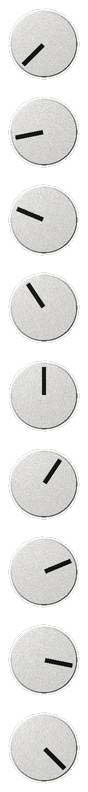
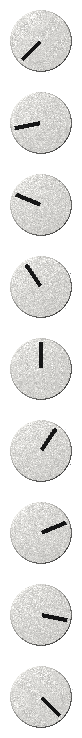
Measure the knobs by their cap edges; GAIN goes red; supersampling off
HMF's right-hand knob sat too high, and the cause was the measurement, not the
placement. Three methods, two of them wrong:

  Tick-ring fitting put the two HMF knobs 13.6 px apart in y when the art paints
  them level. A stray blob joining or leaving the ring drags the fit, and there
  is nothing in the result to say it happened.

  Centroiding the cap is worse: biased 15-20 px up and left on EVERY knob,
  because it finds the middle of the lit part, not the middle of the cap.
  Anything that weights by brightness inherits the lighting.

  Casting rays out and fitting a circle to where the gradient peaks - the cap's
  edge - cannot be pulled by lighting. It is also self-checking, and it checks
  out: every pair now shares a y within 2 px, both columns hold x within 3 px,
  and the cap radius lands on 0.74 of the tick ring for all ten small knobs.

Those radii also replace BODY_OVER_RING. The measurement is of the cap and the
3D knob's silhouette is its shaft, so the cap fraction is divided back out; no
separate fudge factor survives.

One bug of my own in here, since it was invisible in the output for a while: the
render loop still unpacked cap_r as "ring" after the table changed, so r_px used
whatever cap_r was left over from the sampling loop and every knob rendered at
one size - GAIN included, which is a third bigger than the rest.

GAIN's cap now aliases HF's red rather than the warm grey the art paints it. It
[…]

diff --git a/tools/make-assets.py b/tools/make-assets.py
@@ -51,6 +51,13 @@ STEPS = 9
 GAIN_STEPS = STEPS
 FREQ_STEPS = STEPS
 
+# Supersampling for the knob renders. OFF at Ronald's call, 2026-08-28.
+# It does smooth the silhouette - at 1 the rim and the pointer stair-step
+# visibly, see shots/weteq-supersampling.png - but it is not what caused the
+# banding he was chasing, and he prefers the harder, grainier result. Set this
+# back to 2 to restore it; nothing else needs to change.
+SUPERSAMPLE = 1
+
 CAP_SATURATION = 1.30   # how far past the painted colour the caps are pushed
 
 # Caps that do NOT come from the art. The panel paints HPF and LPF a warm cream,
@@ -63,38 +70,47 @@ CAP_OVERRIDE = {
     'lpf': (233, 232, 229),
 }
 
+# Caps that borrow another knob's colour rather than their own painted one.
+# GAIN takes HF's red: the art paints it a warm grey, which reads as a fifth
+# colour on a panel that already has four, and it is the master control so it
+# should look like it belongs to the set. Aliased rather than copied, so it
+# tracks if the art changes.
+CAP_ALIAS = {
+    'gain': 'hf_gain',
+}
+
 LIGHT_BLUR = 0.18       # lighting field = luminance blurred by this x diameter
 LIGHT_CLIP = (0.55, 1.85)   # bound the correction so dark knobs cannot blow up
 
-# name, centre x, centre y, TICK-RING radius (on the 1024x1536 original),
-# control tag, step count
+# name, centre x, centre y, CAP radius (on the 1024x1536 original), tag, steps
 #
-# Centres and ring radii come from fitting a circle to the ring of tick dots
-# painted around each knob. That works where body detection does not: the dots
-# are light on a dark panel for every knob INCLUDING the two black LF ones,
-# which have no detectable body edge at all.
+# Measured by casting rays out from each knob and fitting a circle to where the
+# gradient peaks - the painted cap's EDGE. Two earlier methods were wrong in
+# ways worth remembering:
 #
-# Two filters make the fit trustworthy. The sweep is 270 degrees, so the bottom
-# 90 has no dots - anything found down there is the numeral row ("-15", "600"),
-# and including it drags the centre several pixels down, which is exactly what
-# the first attempt did. And real dots are all one size, so blobs far off the
-# median area are glyph fragments.
+#   Tick-ring fitting put the two HMF knobs 13.6 px apart in y when they are
+#   painted level, because a stray blob joins or leaves the ring and drags the
+#   fit. That is the "HMF right hand button placed too high" Ronald spotted.
 #
-# The result is self-checking: every small knob came out with a ring radius of
-# 78-80 px and GAIN with 107, and the columns landed on x 619 / 866 to within a
-# pixel. A panel laid out on a regular grid should do exactly that.
+#   Centroiding the cap is worse still, biased 15-20 px up and left on every
+#   knob, because it finds the middle of the LIT part rather than the middle of
+#   the cap. Anything that weights by brightness inherits the lighting.
+#
+# An edge fit cannot be pulled by lighting, and the result is self-checking:
+# every pair now shares a y within 2 px, both columns hold their x within 3 px,
+# and the cap radius lands on 0.74 of the tick ring for all ten small knobs.
 KNOBS = [
-    ('hf_gain',   619.1,  301.5, 78.9, 'kHFGainParam',  GAIN_STEPS),
-    ('hf_freq',   866.7,  301.6, 79.2, 'kHFFreqParam',  FREQ_STEPS),
-    ('hmf_gain',  618.9,  653.3, 78.9, 'kHMFGainParam', GAIN_STEPS),
-    ('hmf_freq',  865.0,  639.7, 79.2, 'kHMFFreqParam', FREQ_STEPS),
-    ('gain',      251.1,  898.8, 107.5, 'kGainParam',   GAIN_STEPS),
-    ('lmf_gain',  619.0, 1003.5, 79.0, 'kLMFGainParam', GAIN_STEPS),
-    ('lmf_freq',  866.6, 1003.6, 79.3, 'kLMFFreqParam', FREQ_STEPS),
-    ('hpf',       139.5, 1247.6, 80.0, 'kHPFParam',     FREQ_STEPS),
-    ('lpf',       359.5, 1247.6, 79.9, 'kLPFParam',     FREQ_STEPS),
-    ('lf_gain',   619.6, 1336.1, 78.3, 'kLFGainParam',  GAIN_STEPS),
-    ('lf_freq',   866.6, 1337.3, 79.3, 'kLFFreqParam',  FREQ_STEPS),
+    ('hf_gain',   617.3,  295.4, 60.1, 'kHFGainParam',  GAIN_STEPS),
+    ('hf_freq',   868.2,  296.8, 58.0, 'kHFFreqParam',  FREQ_STEPS),
+    ('hmf_gain',  617.1,  648.3, 60.4, 'kHMFGainParam', GAIN_STEPS),
+    ('hmf_freq',  866.7,  646.4, 61.3, 'kHMFFreqParam', FREQ_STEPS),
+    ('gain',      249.8,  893.5, 75.4, 'kGainParam',    GAIN_STEPS),
+    ('lmf_gain',  618.3,  999.6, 59.1, 'kLMFGainParam', GAIN_STEPS),
+    ('lmf_freq',  867.9,  999.8, 58.5, 'kLMFFreqParam', FREQ_STEPS),
+    ('hpf',       137.8, 1243.8, 59.3, 'kHPFParam',     FREQ_STEPS),
+    ('lpf',       358.5, 1243.7, 59.0, 'kLPFParam',     FREQ_STEPS),
+    ('lf_gain',   619.9, 1333.7, 58.1, 'kLFGainParam',  GAIN_STEPS),
+    ('lf_freq',   868.5, 1333.7, 58.3, 'kLFFreqParam',  FREQ_STEPS),
 ]
 
 # Meter geometry, in original-art coordinates.
@@ -201,13 +217,17 @@ def main():
 
     layout = {'panel': {'size': [tw, TARGET_H]}, 'knobs': {}, 'meters': {}}
 
-    for name, cx, cy, ring, tag, steps in KNOBS:
-        # Sample the painted cap colour from the middle of the knob, well inside
-        # the pointer and the skirt, so the 3D cap keeps each band's identity.
-        s = int(ring * 0.30)
+    # Sample every painted cap first, so CAP_ALIAS can point one knob at
+    # another's colour without depending on the order they are rendered in.
+    _painted = {}
+    for name, cx, cy, cap_r, tag, steps in KNOBS:
+        s = int(cap_r * 0.45)
         patch = np.asarray(src.crop((int(cx - s), int(cy - s),
                                      int(cx + s), int(cy + s))).convert('RGB'))
-        painted = tuple(int(v) for v in np.median(patch.reshape(-1, 3), axis=0))
+        _painted[name] = tuple(int(v) for v in np.median(patch.reshape(-1, 3), axis=0))
+
+    for name, cx, cy, cap_r, tag, steps in KNOBS:
+        painted = _painted[CAP_ALIAS.get(name, name)]
         # Solve for the albedo that RENDERS as the painted colour, then push the
         # saturation past it a little: the panel art's caps are already muted by
         # its own lighting, and reproducing that exactly reads as washed out.
@@ -217,15 +237,18 @@ def main():
         else:
             cap = knob3d.albedo_for(painted, saturation=CAP_SATURATION)
 
-        r_px = ring * knob3d.BODY_OVER_RING * scale
-        probe, off = knob3d.render_at(r_px, 0.0, cap)
+        # The measurement is of the CAP; the 3D knob's silhouette is its SHAFT,
+        # and the cap covers R_CAP of that. Divide back out rather than carry a
+        # separate fudge factor - this is why BODY_OVER_RING is gone.
+        r_px = (cap_r * scale) / knob3d.R_CAP
+        probe, off = knob3d.render_at(r_px, 0.0, cap, ss=SUPERSAMPLE)
         fd = probe.size[0]
 
         strip = Image.new('RGBA', (fd, fd * steps), (0, 0, 0, 0))
         step = SWEEP / (steps - 1)
         for i in range(steps):
             angle = -SWEEP / 2 + i * step        # frame 0 = min = -135 deg
-            frame = probe if i == 0 and False else knob3d.render_at(r_px, angle, cap)[0]
+            frame = probe if i == 0 and False else knob3d.render_at(r_px, angle, cap, ss=SUPERSAMPLE)[0]
             strip.paste(frame, (0, i * fd), frame)
         strip.save(os.path.join(OUT, f'knob_{name}.png'))
 
